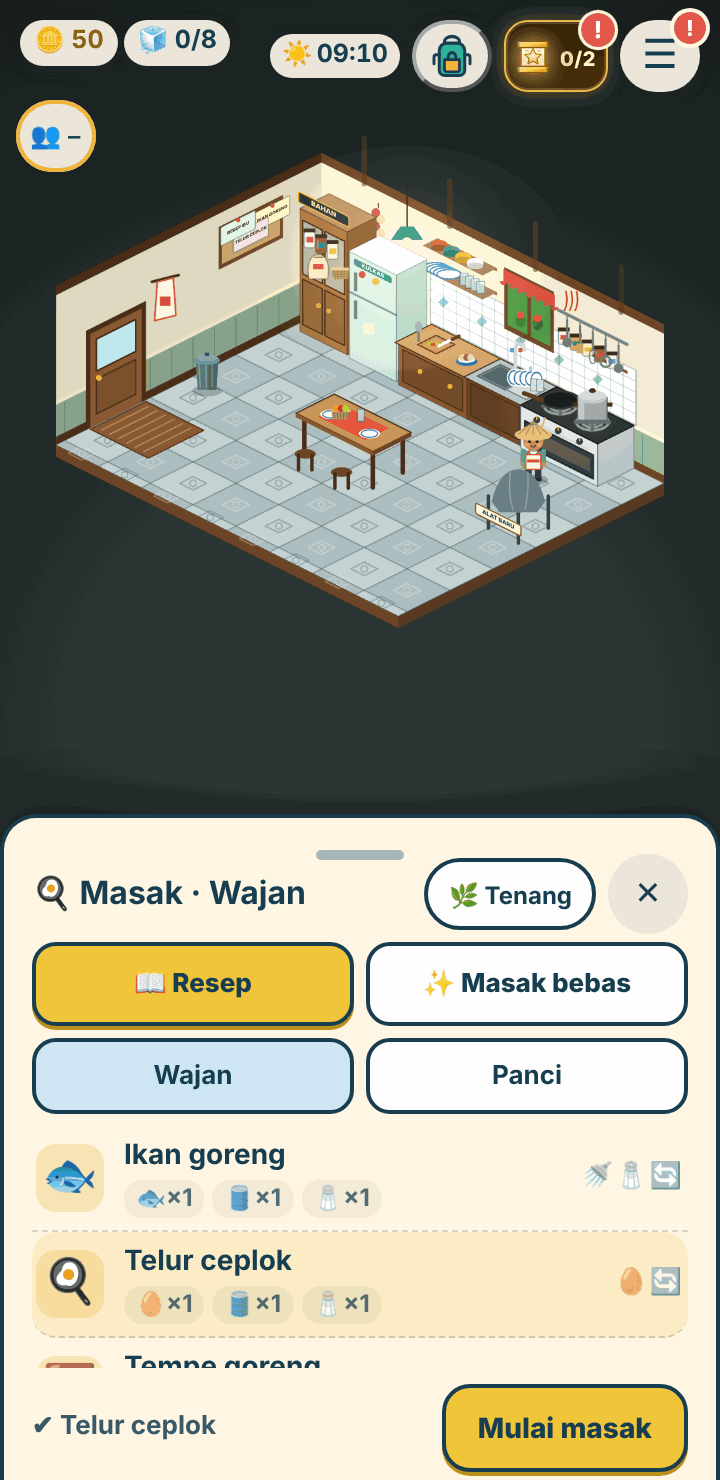
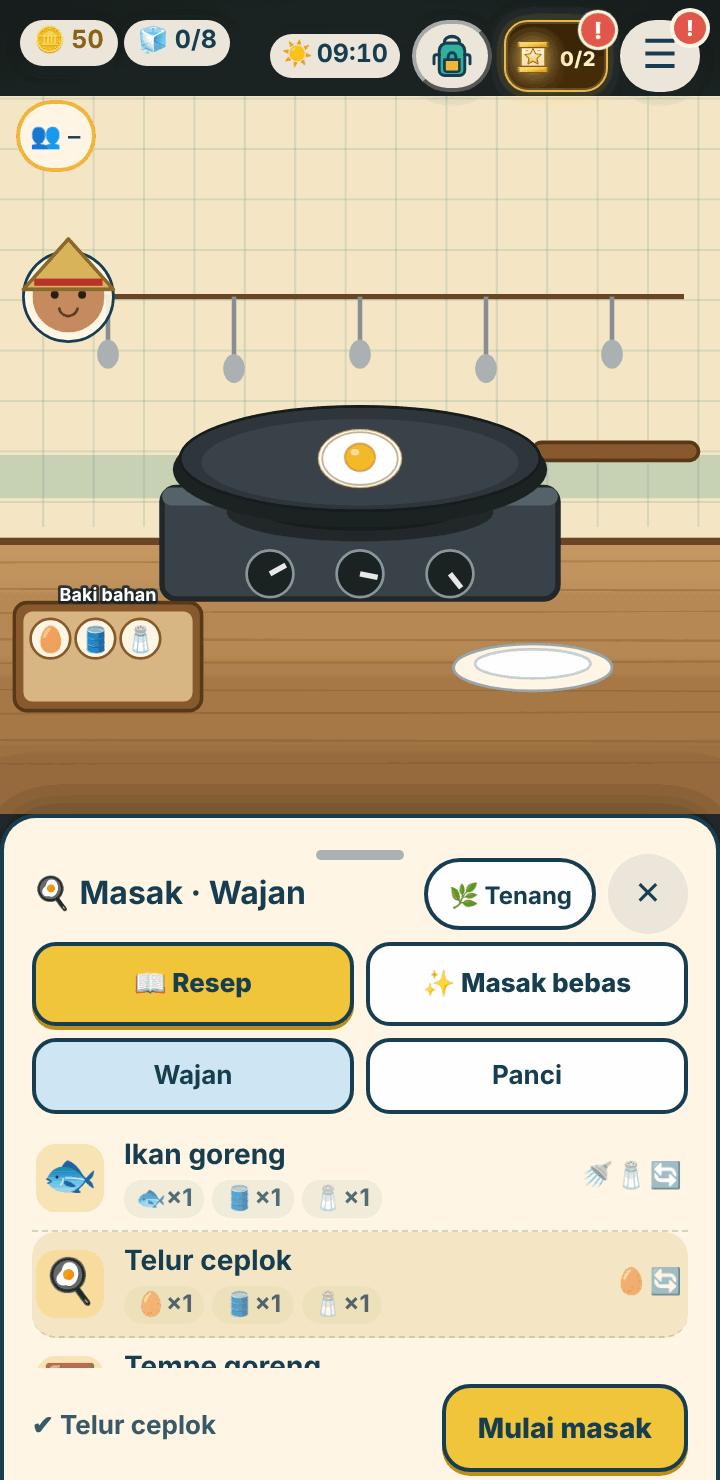
Ide 08C: workstation jarak dekat (kompor, talenan, panci, pemanggang, gelas, meja saji, wastafel) + tes + bukti visual (flag MATI)
Claude-Session: https://claude.ai/code/session_01HzrTpEtUrWmkd26RHnYqpj

diff --git a/tests/browser/test_dapur_masak.py b/tests/browser/test_dapur_masak.py
@@ -444,17 +444,19 @@ def main():
         shot(g, "c23-workstation-gelas")
         bpt(g, "act", "tuang"); bgest(g); bpt(g, "act", "aduk"); bgest(g); bpt(g, "finish", ""); idle(g, 8); wait_for(g, "!!NW.dapurMasak.M.result", 5); r = res(g)
         ok("WB23 GELAS: tuang & aduk lewat kanvas, sajikan → hasil server (resep Kopi susu dikenali)", r and r["rec"] == "kopi_susu", str(r))
+        if ev(g, "!!document.querySelector('#mkSheet [data-a=keep]')"): clk(g, "[data-a=keep]"); idle(g)
         clk(g, "[data-a=close]") if ev(g, "!!document.querySelector('#mkSheet [data-a=close]')") else None; time.sleep(0.3)
         # pemanggang: atur panas & balik ikan lewat kanvas  (hasil gelas yang belum disimpan tetap tampil bila panel dibuka lagi → simpan dulu)
         if ev(g, "!!document.querySelector('#mkSheet [data-a=keep]')"): clk(g, "[data-a=keep]"); idle(g)
         clk(g, "[data-a=close]") if ev(g, "!!document.querySelector('#mkSheet [data-a=close]')") else None
         open_station(g, "d_pemanggang", "pemanggang"); clk(g, "[data-a=tab][data-v=bebas]"); clk(g, "[data-a=finc][data-id=jeruk_nipis]", 0.05); clk(g, "[data-a=finc][data-id=bumbu_dasar]", 0.05); g.locator("[data-a=fish]").nth(0).click(); start(g)
         ok("WB25 PEMANGGANG: adegan panggangan (arang, jeruji, ikan + jeruk) dengan kontrol panas", ev(g, "NW.dapurBench.scene") in ("stove", "counter") and M(g, "M.dapur.cook.tool") == "pemanggang")
-        clk(g, "[data-a=act][data-v=taruh]"); pad_do(g) if False else None; time.sleep(0.2)
         if ev(g, "NW.dapurBench.scene") != "stove": bpt(g, "view", "stove")
         bpt(g, "act", "taruh"); bgest(g); bpt(g, "api", "3"); idle(g); bpt(g, "api", "2"); idle(g); time.sleep(1.0); shot(g, "c26-workstation-pemanggang")
         br.adv(14000); bpt(g, "act", "balik"); bgest(g); br.adv(15000); bpt(g, "act", "angkat"); bgest(g); bpt(g, "finish", ""); idle(g, 8); wait_for(g, "!!NW.dapurMasak.M.result", 5); r = res(g)
         ok("WB26 PEMANGGANG: atur panas (api 3→2), balik ikan, angkat → hasil dari server (layak: enak/lumayan), ikan dikonsumsi sekali", r and r["tier"] in ("enak", "lumayan"), str(r))
+        if ev(g, "!!document.querySelector('#mkSheet [data-a=keep]')"): clk(g, "[data-a=keep]"); idle(g)
+        clk(g, "[data-a=close]") if ev(g, "!!document.querySelector('#mkSheet [data-a=close]')") else None; time.sleep(0.4)
         ok("WB24 panel ditutup → kanvas workstation disembunyikan; tidak ada galat halaman", ev(g, "document.getElementById('mkBench').classList.contains('hidden')") and not errs, str(errs[:2]))
         ctx.close(); br.close()
 

diff --git a/docs/ai-handoff/ide-08/STATUS-08C.md b/docs/ai-handoff/ide-08/STATUS-08C.md
@@ -3,9 +3,21 @@
 Pemilik: Worker 01 (Ide 08). Status: **Draft PR bertingkat di atas #137, semua flag MATI**. Tidak mengubah #136, #137, #59, #60, #61.
 
 ## Basis
-- Dasar: head Draft PR #137 = `86bb876` (branch `fitur/ide08b-kedai-dapur-20261113`, yang sendiri bertumpu pada #136 `fd803a3f45a9b76fb2daef3b4619bc38acd13c8b`).
-- Branch 08C: `fitur/ide08c-masak-cuci-20261113`. PR dasar = branch #137 (bukan `main`), jadi diff hanya memuat 08C.
+- Fase A final: `25b71fe936038bd577dc7ab6d97c11e26b4b63c8` (branch `integrasi/fase-a-final-20261113`).
+- #137 (08B) di-rebase oleh sesi ini ke `25b71fe`: head baru `530b1dfe2f854f89993da3ecf2c31e59ab957afc` (dulu `86bb876`), `--force-with-lease`, base PR #137 kini `integrasi/fase-a-final-20261113`. Rebase tanpa konflik; tambahan `!(NW.room && NW.room.active)` di `rombongan/client.js` DAN Kemudi Rombongan (Fase A) sama-sama utuh (diff `rombongan/` terhadap #137 = 0).
+- Branch 08C: `fitur/ide08c-masak-cuci-20261113`, di-rebase di atas head #137 baru. PR dasar = branch #137 (bukan `main`), jadi diff hanya memuat 08C.
 - Backend: PR #60 (08A), kontrak `CONTRACT-08A.md`. Tidak ada perubahan backend.
+
+## Workstation jarak dekat (tambahan wajib) — `dapur/bench.js`
+Saat panel dapur terbuka, bagian atas layar (di sisi kiri pada lanskap) berubah menjadi **kanvas workstation jarak dekat**, bukan daftar tombol/progress bar. Panel bawah tetap ada sebagai jalur cadangan (papan ketik / pembaca layar).
+- **Kompor/wajan**: wajan besar, api kecil/sedang/besar (tombol api di kanvas), baki bahan (ketuk bahan = "masukkan ke wajan", tampilan saja), spatula (balik), gagang wajan (angkat), sendok kayu (aduk), garam (bumbu), piring (sajikan).
+- **Talenan**: kupas (bawang), potong **dan iris** (ketuk atau geser jari melintasi talenan = irisan), cuci di basin, pecah telur ke mangkuk, aduk, bumbu. Adegan berpindah otomatis sesuai langkah resep; ada tombol pindah "Talenan ⇄ Kompor".
+- **Panci**: teko "isi air" (tahan), air + gelembung mendidih + uap, angkat. **Pemanggang**: arang menyala mengikuti panas, jeruji, ikan + jeruk, balik ikan. **Gelas**: teko tuang, sendok aduk, sajikan.
+- **Meja saji**: masakan di piring (resep → gambar bahan; tier → gosong/mentah/aneh/tidak layak), nampan: ketuk masakan untuk menatanya di piring.
+- **Wastafel**: pilih alat kotor, lalu sabun → gosok → bilas → taruh ke rak langsung di kanvas.
+- **Petunjuk kematangan**: warna makanan (pucat → keemasan → cokelat → hitam), asap (putih → pekat), gelembung & desis minyak (suara), api; potret karakter di pojok bereaksi (puas/biasa/ragu/bingung/batuk/mual + animasi muntah kartun, blur ikut menutup kanvas). Terlalu cepat → **mentah**, terlambat → **gosong** — **ditentukan server**, bukan kanvas.
+- **Nyaman di HP**: sasaran sentuh ≥ 38×34 px, ketuk di mana saja pada kanvas dihitung untuk gerakan ketuk; putar/gosok menghitung jarak jari di mana pun (tidak perlu presisi); mode Tenang mengurangi gerak.
+- Tidak ada perubahan backend/kontrak: kanvas hanya memanggil aksi yang sama (nama langkah); langkah `tuang` untuk panci ("isi air") adalah langkah resmi server yang opsional.
 
 ## Perbaikan kecil 08B (dikerjakan lebih dulu)
 - Sheet kasir HP: bottom sheet **maks 45% tinggi layar**, ada pegangan; **ketuk = diperkecil/dibuka**, **tarik = ubah tinggi** (64 px – 45%), Enter/Spasi juga bekerja.
@@ -34,7 +46,7 @@ Harga bahan, harga pemanggang 250 dan angka kualitas adalah **nilai uji** — be
 
 ## Tes
 - `node tests/unit-dapur.js` — **26 lulus** (17 dari 08B + 9 baru: tingkat hasil/efek, pad, badan Mulai/Cuci, batas masak bebas, Percepat, alat kotor tanpa penilaian di klien, perkiraan visual, fishPool, galat).
-- `python3 tests/browser/test_dapur_masak.py` — **93 lulus, 0 gagal**, dengan **backend ASLI (PR #60)** lewat jembatan lokal `tests/browser/dapur_bridge.mjs` (Firestore tiruan, jam bisa dimajukan, data sintetis). Butuh `NUSA_BACKEND=/jalur/nusa-island-control-center`; tanpa itu uji DILEWATI, bukan lulus palsu.
+- `python3 tests/browser/test_dapur_masak.py` — **133 lulus, 0 gagal** (termasuk 26 uji workstation `WB*` dan 14 uji ukuran layar `WS-*`), dengan **backend ASLI (PR #60)** lewat jembatan lokal `tests/browser/dapur_bridge.mjs` (Firestore tiruan, jam bisa dimajukan, data sintetis). Butuh `NUSA_BACKEND=/jalur/nusa-island-control-center`; tanpa itu uji DILEWATI, bukan lulus palsu.
   Cakupan: 10 resep (4 awal + 6 rahasia ditemukan lewat masak bebas), gosong / mentah / aneh / tidak layak, makan & buang, blur 4 dtk dan hilangnya, mode tenang & reduced-motion, retry & klik ganda & putus koneksi (mulai, langkah, api, sajikan, makan) dengan jawaban hilang, ikan tepat sekali (mulai & batal), audio mute / slider 0 / lazy, cuci normal & percepat (+ 409 dari server), layar 360×740 / 412×915 / 740×360 / 1280×800 (panel & sheet kasir ≤45%, bisa diperkecil/ditarik, Bu Indah & kasir tidak tertutup).
 - `python3 tests/browser/test_dapur.py` (08B) — 59 lulus, 0 gagal setelah perubahan sheet.
 - Regresi lulus: semua `unit-*` (kecuali 2 yang sudah gagal di basis: `unit-leaderboard-stats`, `unit-username`), `test_ekonomi` 22, `test_house` 83, `test_rumahku_sosial` 25, `test_rumahku_flag_server` 2, `test_delivery` 35, `test_kedai_hidup` 16, `test_rombongan` 51.
@@ -43,7 +55,8 @@ Harga bahan, harga pemanggang 250 dan angka kualitas adalah **nilai uji** — be
 - Build: `bash firebase/scripts/build-hosting.sh` dan `node firebase/scripts/cek-rilis.js` (lihat laporan PR). Pindai rahasia: bersih.
 
 ## Screenshot (`docs/ide08c/`)
-c01 menyiapkan bahan · c02 menggoreng (api besar) · c03 gosong + reaksi karakter · c04 mual + blur · c05 aneh · c06 tidak layak (Buang / Tetap makan) · c07 bak cuci · c08 cuci: bilas · c09 kasir HP 360×740 · c09b kasir diperkecil · c10 panel masak lanskap 740×360 · c11 mual dalam mode tenang.
+Workstation utama: c12 pilih resep (kompor) · c13 talenan · c14 kompor + api · c15 angkat · c16 meja saji · c17 mentah (terlalu cepat) · c18 gosong (terlambat) + reaksi · c19 mual + blur · c20 panci · c21 wastafel · c23 gelas · c26 pemanggang · c24 kompor 360×740 & 740×360 · c25 panel diperkecil.
+Dari rangkaian lengkap: c01 menyiapkan bahan · c02 menggoreng · c03 gosong + reaksi · c04 mual + blur · c05 aneh · c06 tidak layak · c07/c08 bak cuci · c09 kasir ≤45% (+ c09b diperkecil, 740×360) · c10 panel masak · c11 mual dalam mode tenang.
 
 ## Keterbatasan (jujur)
 - Tes di Chromium headless; FPS BUKAN bukti performa HP (Galaxy M15 5G belum diuji fisik). Audio sintetis belum didengar di perangkat nyata; mixing/volume butuh telinga Owner.
